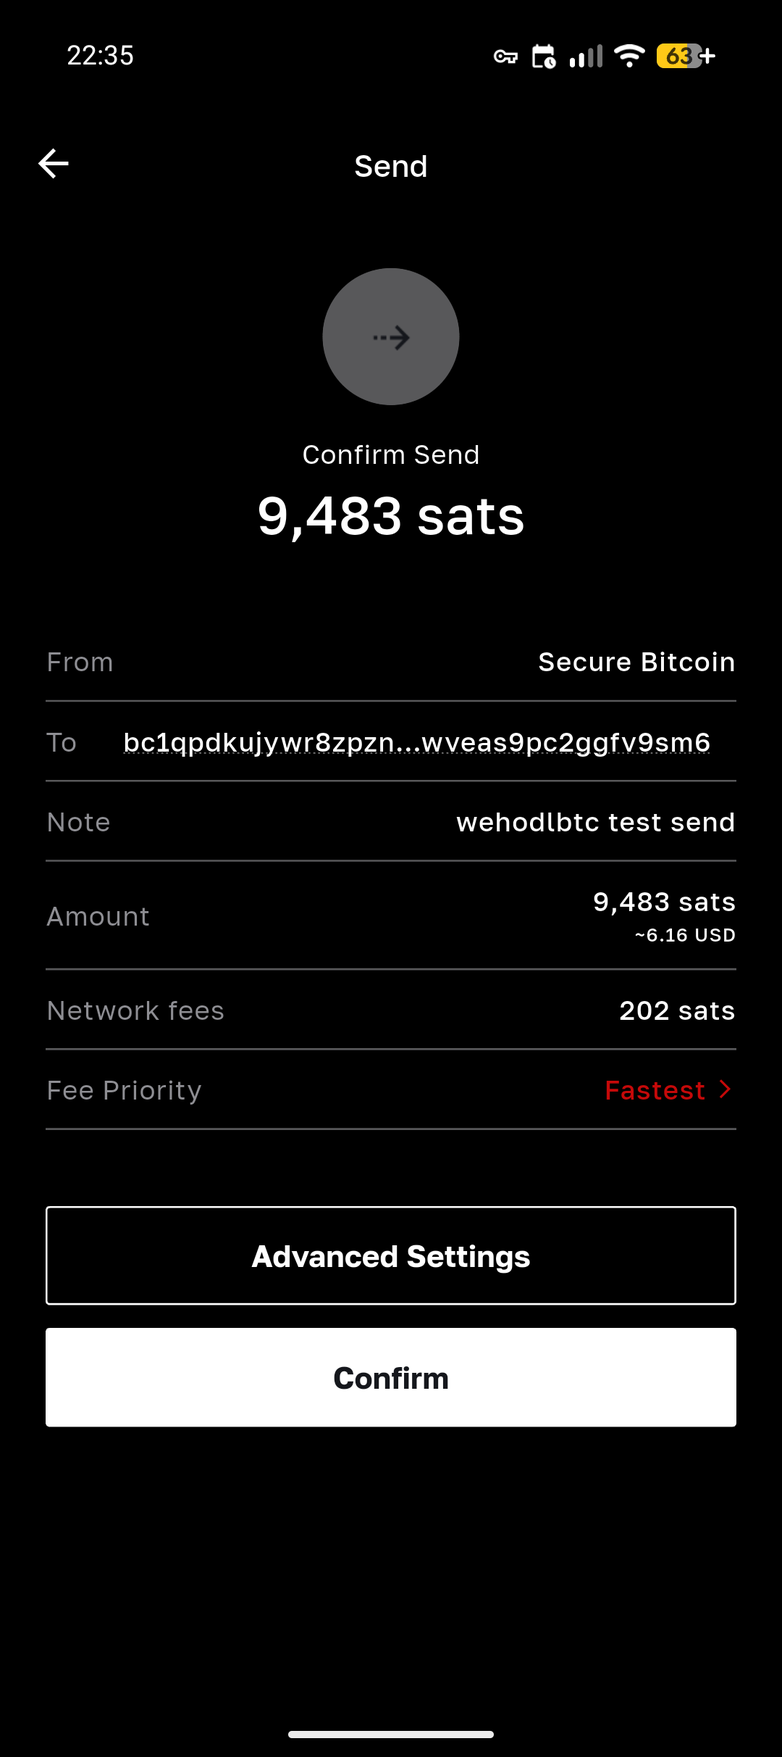
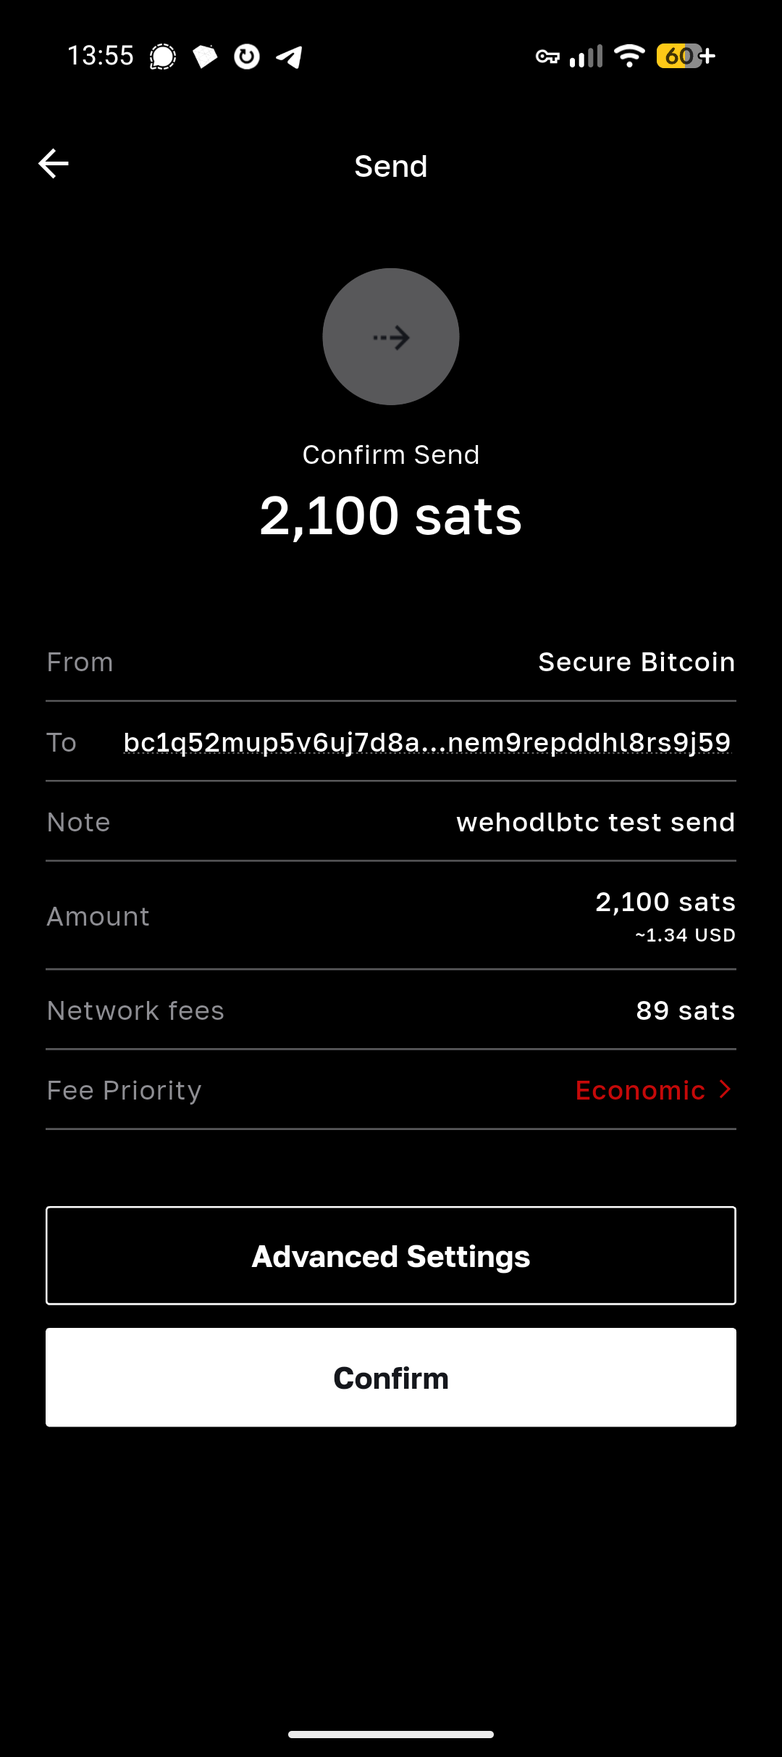
Rebuild Bull send step to match the real flow; document autoswap
Bull asks for the recipient before the amount, and the fee sheet opens from the
  confirm screen, so the old ordering sent readers looking for fields that were
  not on screen yet. Seven shots, one pin per action. Autoswap explained in step 2
  with the caveat that it is a swap and is down while Boltz is suspended.
  Also nudges Nunchuk pins 3 and 5 off the status badge.

diff --git a/src/guides_v2.rs b/src/guides_v2.rs
@@ -181,13 +181,19 @@ pub fn parts_for_level(level_id: &str) -> &'static [LevelPart] {
 }
 
 /// Look up one part of a level by its id (the last URL segment).
-pub fn find_level_part(level_id: &str, part_id: &str) -> Option<&'static LevelPart> {
+pub fn find_level_part(
+    level_id: &str,
+    part_id: &str,
+) -> Option<&'static LevelPart> {
     parts_for_level(level_id).iter().find(|p| p.id == part_id)
 }
 
 /// Sentinel for a step with no screenshot: the renderer shows a single centered
 /// column (no device frame) when `shots` is empty.
-const NO_DEVICE: Device = Device { frame: Frame::Desktop, shots: &[] };
+const NO_DEVICE: Device = Device {
+    frame: Frame::Desktop,
+    shots: &[],
+};
 
 // =============================================================================
 // COVE (Basic) — content adapted from the BlueWallet guide, rendered for Cove.
@@ -591,7 +597,7 @@ pub static BLUE_GUIDE: GuideV2 = GuideV2 {
         // 2 · Back up recovery words
         Step {
             title: "Write down your recovery words",
-            goal: "Save the words that are the only way to recover your bitcoin if you lose your phone.",
+            goal: "Save your seed words, they are the only way to recover your bitcoin if you lose your phone.",
             actions: &[
                 "Write all **12 words** down **in order** on paper, exactly as shown.",
                 "Double-check every word and its spelling against the screen.",
@@ -1994,10 +2000,10 @@ pub static BULL_GUIDE: GuideV2 = GuideV2 {
                 "The last screen lists features to explore later. Tap **Get started**.",
             ],
             // Boltz suspended its swap service in August 2026, which is what Bull's
-            // Lightning rail ran on. Stated up front rather than buried, because the
+            // Lightning rail ran on. Stated up front rather than buried, bece the
             // Lightning tab is still visible in the app and in this guide's screenshots.
             // Remove this once Bull ships a replacement; they say work has begun.
-            flag: Some("Lightning is temporarily unavailable in Bull. The swap provider it relied on suspended service, and Bull is working on a replacement. On-chain Bitcoin and Liquid both work normally, your funds are unaffected, and everything in this guide is on-chain. See **[Bull's announcement](https://www.bullbitcoin.com/blog/boltz-has-suspended-its-swap-services-your-funds-are-safe-here-is-what-it-means-for-bull-wallet-users)** for the detail."),
+            flag: Some("Lightning is temporarily unavailable in Bull. The swap provider it relied on suspended service, and Bull is working on a replacement. On-chain Bitcoin and Liquid both work normally, your funds are unaffected, and everything in this guide is on-chain. See **[Bull's announcement](https://www.bullbitcoin.com/blog/boltz-has-suspended-its-swap-services-your-funds-are-safe-here-is-what-it-means-for-bull-wallet-users)** for details."),
             why: Some((
                 "What Bull actually is",
                 "A self-custodial wallet with an optional exchange bolted on. The keys are generated on your phone and never leave it, and you do not need a Bull Bitcoin account to use any wallet feature. The buy and sell buttons only matter if you choose to use them.",
@@ -2050,11 +2056,12 @@ pub static BULL_GUIDE: GuideV2 = GuideV2 {
                 "Tap **Create New Wallet**. Your keys are generated on the device.",
                 "**Advanced Options** is optional. It lets you route through **Tor** or point the app at your own **Electrum** and **Mempool** servers, and you can set all of it later in App Settings.",
                 "Bull opens on your dashboard with two wallets: **Secure Bitcoin** on the Bitcoin network, and **Instant payments** on Liquid.",
+                "You'll notice the banner **Autoswap is active**, click on it for details. Left on, it sweeps the instant wallet back down to a target balance once it goes over a maximum, moving the surplus into Secure Bitcoin so spending money does not quietly pile up on Liquid. Default is on, feel free to toggle it off if you don't plan to use liquid.",
             ],
             flag: None,
             why: Some((
                 "Why two wallets, and what Liquid is",
-                "Both wallets come from the same recovery words, so one backup covers both. Secure Bitcoin holds real on-chain bitcoin. Instant payments sits on Liquid, a sidechain that settles in seconds for a fraction of a cent, which is what makes small payments practical. Liquid is not the Bitcoin main chain though: it is run by a federation of functionaries, so you are trusting that group in a way you are not on-chain. Treat the instant wallet as pocket money and keep savings in Secure Bitcoin.",
+                "Both wallets come from the same recovery words, so one backup covers both. Secure Bitcoin holds real on-chain bitcoin. Instant payments sits on Liquid, a sidechain that settles in seconds for a fraction of a cent, which is what makes small payments practical. Liquid is not the Bitcoin main chain though: it is run by a federation of functionaries, so you are trusting that group in a way you are not on-chain. Treat the instant wallet as pocket money and keep savings in Secure Bitcoin. Autoswap is Bull's way of enforcing exactly that split for you: set a target and a maximum, and anything above the maximum is swept into Secure Bitcoin, with a fee ceiling so it will not move funds on an expensive day. It is a swap under the hood, so it is one of the things that stopped working when Boltz suspended service, and you can turn it off outright.",
             )),
             needs: &[],
             backup_cta: false,
@@ -2085,13 +2092,21 @@ pub static BULL_GUIDE: GuideV2 = GuideV2 {
                         img_h: BULL_H,
                         pins: &[Pin { n: 3, x: 4.0, y: 52.0, label: "Secure Bitcoin and Instant payments" }],
                     },
+                    Shot {
+                        image: "/guide-images/bull/bull-autoswap-settings.png",
+                        alt: "Bull Auto Transfer Settings with target and maximum instant wallet balances, a maximum transfer fee and Secure Bitcoin as the recipient",
+                        caption: "Autoswap: sweep the surplus into Secure Bitcoin",
+                        img_w: BULL_W,
+                        img_h: BULL_H,
+                        pins: &[Pin { n: 4, x: 4.0, y: 35.0, label: "Target and maximum balances" }],
+                    },
                 ],
             },
         },
         // 3 · Back up
         Step {
             title: "Write down your recovery words",
-            goal: "Save the words that are your only way back into this wallet.",
+            goal: "Save your seed words, they are the only way to recover your wallet.",
             actions: &[
                 "On the dashboard, tap **Protect your bitcoin. Back up your wallet now.**",
                 "Choose the **physical backup** option, which shows you the words to write down. (The encrypted vault option stores an encrypted copy with a provider; this guide uses paper.)",
@@ -2141,7 +2156,7 @@ pub static BULL_GUIDE: GuideV2 = GuideV2 {
             flag: None,
             why: Some((
                 "Which network should I receive on?",
-                "On-chain Bitcoin for anything you intend to keep, because it settles on the main chain. Liquid for small everyday amounts, because a small on-chain payment can cost more in fees than it is worth. Bull nudges you toward the sensible one based on the amount, and warns you when a payment is uneconomical. Lightning would normally be the other everyday option, and it is the rail currently out of service.",
+                "On-chain Bitcoin for anything you intend to keep, because it settles on the main chain. Liquid for small everyday amounts, because a small on-chain payment can cost more in fees than it is worth. Bull nudges you toward the sensible one based on the amount, and warns you when a payment is uneconomical. Lightning would normally be the other everyday option, but it currently out of service. For now, stick with on-chain (Secure Bitcoin).",
             )),
             needs: &[],
             backup_cta: false,
@@ -2199,11 +2214,13 @@ pub static BULL_GUIDE: GuideV2 = GuideV2 {
             title: "Send bitcoin",
             goal: "Send a payment and choose what you pay in fees.",
             actions: &[
-                "Tap **Send**, choose which wallet to spend from, and enter the **amount**. Add a note if you want to remember what it was for.",
-                "Tap **Continue**, then scan or paste the recipient's address.",
-                "Pick a **fee**: Fastest, Economic or Slow, or set your own. Bull shows the cost of each in sats and in your currency.",
-                "Check the address, amount and fee on the confirm screen, then tap **Confirm**.",
-                "Bull broadcasts it and shows **Successfully Sent**. The transaction sits as **Pending** until it is mined, and you can **Accelerate** it if you set the fee too low.",
+                "Open your **Secure Bitcoin** wallet and tap **Send**. Scan the recipient's code with **Open the Camera**, or paste their address into **Recipient's address**, then tap **Continue**.",
+                "Enter the **amount**. Tap the arrow beside it to switch between sats and another currency, add a **note** to remember what the payment was for, or flip **MAX** to send the whole balance. Tap **Continue**.",
+                "The confirm screen lists the wallet it leaves **From**, the address it goes **To**, your note, the amount and the **network fee**. Confirm the address here.",
+                "To change what you pay, tap **Fee Priority**: **Fastest**, **Economic**, **Slow**, or a custom rate. Bull shows each one in sats per vByte, in sats, and in your currency.",
+                "Tap **Confirm**. Bull signs and broadcasts it, then shows **Successfully Sent**.",
+                "Tap **View Details** for the transaction ID and status. While it says **Pending** you can **Accelerate** it, which re-sends the same payment with a higher fee.",
+                "Back in the wallet the payment sits under **Pending** with your note, and the balance already accounts for it.",
             ],
             flag: Some("Always re-read the address before you confirm. Bitcoin transactions cannot be reversed."),
             why: Some((
@@ -2216,52 +2233,64 @@ pub static BULL_GUIDE: GuideV2 = GuideV2 {
                 frame: Frame::Phone,
                 shots: &[
                     Shot {
-                        image: "/guide-images/bull/bull-send-01-amount.png",
-                        alt: "Bull send screen with the amount and an optional note",
-                        caption: "Pick the wallet, amount and note",
+                        image: "/guide-images/bull/bull-send-01-recipient.png",
+                        alt: "Bull send screen offering a QR scan or a pasted recipient address",
+                        caption: "Scan the code, or paste the address",
                         img_w: BULL_W,
                         img_h: BULL_H,
-                        pins: &[Pin { n: 1, x: 4.0, y: 24.0, label: "Enter the amount" }],
+                        pins: &[Pin { n: 1, x: 4.0, y: 81.0, label: "Paste the address here" }],
                     },
                     Shot {
-                        image: "/guide-images/bull/bull-send-02-fee.png",
-                        alt: "Bull select network fee with fastest, economic, slow and custom",
-                        caption: "Choose your fee",
+                        image: "/guide-images/bull/bull-send-02-amount.png",
+                        alt: "Bull send screen with the amount, an optional note and a MAX toggle",
+                        caption: "Amount, note, and MAX for the lot",
                         img_w: BULL_W,
                         img_h: BULL_H,
-                        pins: &[Pin { n: 3, x: 4.0, y: 16.0, label: "Pick a fee" }],
+                        pins: &[Pin { n: 2, x: 4.0, y: 24.0, label: "Enter the amount" }],
                     },
                     Shot {
                         image: "/guide-images/bull/bull-send-03-confirm.png",
-                        alt: "Bull confirm send screen with address, amount and fees",
+                        alt: "Bull confirm send screen showing from, to, note, amount, network fee and fee priority",
                         caption: "Check everything, then Confirm",
                         img_w: BULL_W,
                         img_h: BULL_H,
-                        pins: &[Pin { n: 4, x: 4.0, y: 42.0, label: "Verify the address" }],
+                        pins: &[
+                            Pin { n: 3, x: 4.0, y: 42.0, label: "Read the address" },
+                            Pin { n: 4, x: 4.0, y: 62.0, label: "Tap to change the fee" },
+                            Pin { n: 5, x: 4.0, y: 78.0, label: "Confirm to broadcast" },
+                        ],
                     },
                     Shot {
-                        image: "/guide-images/bull/bull-send-04-sent.png",
-                        alt: "Bull successfully sent confirmation",
+                        image: "/guide-images/bull/bull-send-04-fee.png",
+                        alt: "Bull select network fee with fastest, economic, slow and a custom rate",
+                        caption: "Fastest, Economic, Slow, or your own rate",
+                        img_w: BULL_W,
+                        img_h: BULL_H,
+                        pins: &[Pin { n: 4, x: 4.0, y: 28.0, label: "Pick a fee" }],
+                    },
+                    Shot {
+                        image: "/guide-images/bull/bull-send-05-sent.png",
+                        alt: "Bull confirmation that the payment was successfully sent",
                         caption: "Sent",
                         img_w: BULL_W,
                         img_h: BULL_H,
                         pins: &[],
                     },
                     Shot {
-                        image: "/guide-images/bull/bull-send-05-pending-details.png",
-                        alt: "Bull transaction details for a pending send, with accelerate",
+                        image: "/guide-images/bull/bull-send-06-pending-details.png",
+                        alt: "Bull transaction details with the transaction ID, a pending status and Accelerate",
                         caption: "Pending, with Accelerate if you need it",
                         img_w: BULL_W,
                         img_h: BULL_H,
-                        pins: &[Pin { n: 5, x: 4.0, y: 60.0, label: "Status: Pending" }],
+                        pins: &[Pin { n: 6, x: 4.0, y: 72.0, label: "Status: Pending" }],
                     },
                     Shot {
-                        image: "/guide-images/bull/bull-send-06-dashboard-empty.png",
-                        alt: "Bull dashboard after the send, balance back to zero",
-                        caption: "Back on the dashboard",
+                        image: "/guide-images/bull/bull-send-07-wallet-pending.png",
+                        alt: "Bull Secure Bitcoin wallet with the pending send at the top and a reduced balance",
+                        caption: "Pending in your history, balance updated",
                         img_w: BULL_W,
                         img_h: BULL_H,
-                        pins: &[],
+                        pins: &[Pin { n: 7, x: 4.0, y: 48.0, label: "Your pending payment" }],
                     },
                 ],
             },
@@ -2531,7 +2560,10 @@ pub static NUNCHUK_GUIDE: GuideV2 = GuideV2 {
                         caption: "Received, pending confirmations",
                         img_w: NUN_W,
                         img_h: NUN_H,
-                        pins: &[Pin { n: 3, x: 68.0, y: 37.0, label: "Pending confirmations, balance updated" }],
+                        // x=45 sits in the empty gap between the truncated address (ends
+                        // ~25%) and the status badge (starts ~64%). Anything past ~60%
+                        // covers the badge text the pin is pointing at.
+                        pins: &[Pin { n: 3, x: 45.0, y: 37.0, label: "Pending confirmations, balance updated" }],
                     },
                     Shot {
                         image: "/guide-images/nunchuk/nunchuk-12-receive-details.png",
@@ -2548,7 +2580,8 @@ pub static NUNCHUK_GUIDE: GuideV2 = GuideV2 {
                         img_w: NUN_W,
                         img_h: NUN_H,
                         // confirmation pills are 260x48 at +778+870 and +778+1050
-                        pins: &[Pin { n: 5, x: 68.0, y: 36.9, label: "Confirmation count" }],
+                        // Matches pin 3's x: same screen layout, same carousel.
+                        pins: &[Pin { n: 5, x: 45.0, y: 36.9, label: "Confirmation count" }],
                     },
                 ],
             },
@@ -2736,10 +2769,11 @@ mod content_tests {
 
     /// Every guide reachable from a wallet picker or a level part.
     fn all_guides() -> Vec<(&'static str, &'static GuideV2)> {
-        let mut v: Vec<(&'static str, &'static GuideV2)> = ["cove", "blue", "bull", "nunchuk", "sparrow"]
-            .iter()
-            .filter_map(|id| find_guide_v2(id).map(|g| (*id, g)))
-            .collect();
+        let mut v: Vec<(&'static str, &'static GuideV2)> =
+            ["cove", "blue", "bull", "nunchuk", "sparrow"]
+                .iter()
+                .filter_map(|id| find_guide_v2(id).map(|g| (*id, g)))
+                .collect();
         for part in INTERMEDIATE_PARTS.iter().chain(ADVANCED_PARTS.iter()) {
             v.push((part.id, part.guide));
         }
@@ -2756,22 +2790,49 @@ mod content_tests {
     #[test]
     fn markdown_only_appears_in_inline_parsed_fields() {
         for (id, g) in all_guides() {
-            assert!(!has_markdown(g.intro.lede), "{id}: intro.lede is not inline-parsed");
-            assert!(!has_markdown(g.completion.lede), "{id}: completion.lede is not inline-parsed");
+            assert!(
+                !has_markdown(g.intro.lede),
+                "{id}: intro.lede is not inline-parsed"
+            );
+            assert!(
+                !has_markdown(g.completion.lede),
+                "{id}: completion.lede is not inline-parsed"
+            );
             for (i, s) in g.steps.iter().enumerate() {
-                assert!(!has_markdown(s.goal), "{id} step {i}: goal is not inline-parsed");
+                assert!(
+                    !has_markdown(s.goal),
+                    "{id} step {i}: goal is not inline-parsed"
+                );
                 if let Some((summary, body)) = s.why {
-                    assert!(!has_markdown(summary), "{id} step {i}: why summary is not inline-parsed");
-                    assert!(!has_markdown(body), "{id} step {i}: why body is not inline-parsed");
+                    assert!(
+                        !has_markdown(summary),
+                        "{id} step {i}: why summary is not inline-parsed"
+                    );
+                    assert!(
+                        !has_markdown(body),
+                        "{id} step {i}: why body is not inline-parsed"
+                    );
                 }
                 for n in s.needs {
-                    assert!(!has_markdown(n), "{id} step {i}: needs pill is not inline-parsed");
+                    assert!(
+                        !has_markdown(n),
+                        "{id} step {i}: needs pill is not inline-parsed"
+                    );
                 }
                 for shot in s.device.shots {
-                    assert!(!has_markdown(shot.caption), "{id} step {i}: caption is not inline-parsed");
-                    assert!(!has_markdown(shot.alt), "{id} step {i}: alt text is not inline-parsed");
+                    assert!(
+                        !has_markdown(shot.caption),
+                        "{id} step {i}: caption is not inline-parsed"
+                    );
+                    assert!(
+                        !has_markdown(shot.alt),
+                        "{id} step {i}: alt text is not inline-parsed"
+                    );
                     for p in shot.pins {
-                        assert!(!has_markdown(p.label), "{id} step {i}: pin label is not inline-parsed");
+                        assert!(
+                            !has_markdown(p.label),
+                            "{id} step {i}: pin label is not inline-parsed"
+                        );
                     }
                 }
             }
@@ -2793,6 +2854,76 @@ mod content_tests {
                             p.n
                         );
                     }
+                }
+            }
+        }
+    }
+
+    /// Nothing reachable without passing the under-construction gate may mention
+    /// COLDCARD. The Intermediate and Advanced guides are built around it and are
+    /// gated; if a level is ever un-gated, or a Coldcard reference creeps into a Basic
+    /// guide, this fails rather than quietly recommending a compromised device.
+    #[test]
+    fn ungated_guides_never_mention_coldcard() {
+        let banned = ["coldcard", "coinkite", "seedplate", "mk3", "mk4"];
+        for level in crate::guides::ALL_LEVELS {
+            if level.under_construction {
+                continue;
+            }
+            let mut texts: Vec<&str> =
+                vec![level.intro, level.title, level.subtitle];
+            // Wallet guides AND part guides: Intermediate and Advanced carry no wallets
+            // at all, so walking `level.wallets` alone silently scanned nothing for them.
+            let mut guides: Vec<&'static GuideV2> = level
+                .wallets
+                .iter()
+                .filter_map(|w| find_guide_v2(w))
+                .collect();
+            for part in parts_for_level(level.id) {
+                texts.push(part.name);
+                texts.push(part.tagline);
+                texts.extend(part.highlights.iter().copied());
+                guides.push(part.guide);
+            }
+            for g in guides {
+                {
+                    texts.push(g.intro.title);
+                    texts.push(g.intro.lede);
+                    texts.extend(g.intro.outcomes.iter().copied());
+                    texts.push(g.completion.title);
+                    texts.push(g.completion.lede);
+                    for s in g.steps {
+                        texts.push(s.title);
+                        texts.push(s.goal);
+                        texts.extend(s.actions.iter().copied());
+                        texts.extend(s.needs.iter().copied());
+                        if let Some(f) = s.flag {
+                            texts.push(f);
+                        }
+                        if let Some((a, b)) = s.why {
+                            texts.push(a);
+                            texts.push(b);
+                        }
+                        for shot in s.device.shots {
+                            texts.push(shot.alt);
+                            texts.push(shot.caption);
+                            for pin in shot.pins {
+                                texts.push(pin.label);
+                            }
+                        }
+                    }
+                }
+            }
+            for t in texts {
+                let lower = t.to_lowercase();
+                for b in banned {
+                    assert!(
+                        !lower.contains(b),
+                        "level '{}' is live and mentions '{}': {}",
+                        level.id,
+                        b,
+                        t
+                    );
                 }
             }
         }

diff --git a/src/routes/coldcard.rs b/src/routes/coldcard.rs
@@ -450,11 +450,9 @@ pub fn ColdcardAdvisoryPage() -> impl IntoView {
                         " on desktop, if you are comfortable on a computer."
                     </li>
                     <li>
-                        <span class="text-white font-medium">"Blue Wallet"</span>
-                        ", "
-                        <span class="text-white font-medium">"Blockstream Green"</span>
-                        " or "
                         <span class="text-white font-medium">"Cove"</span>
+                        " or "
+                        <span class="text-white font-medium">"Nunchuk"</span>
                         " on a phone, if you want this done in the next ten minutes."
                     </li>
                 </ul>
@@ -466,8 +464,8 @@ pub fn ColdcardAdvisoryPage() -> impl IntoView {
                     >
                         "Basic guides"
                     </a>
-                    " walk through Sparrow, Blue Wallet and Blockstream Green step by step, including writing the
-                     backup down properly. They are unaffected and still online."
+                    " walk through Cove, Nunchuk and Bull Bitcoin on a phone, and Sparrow on a desktop, step by
+                     step, including writing the backup down properly. They are unaffected and still online."
                 </p>
                 <div class="bg-white/5 border border-white/10 rounded-xl p-5 mb-4">
                     <div class="font-title text-xs uppercase tracking-widest text-[#f7931a] mb-2">
